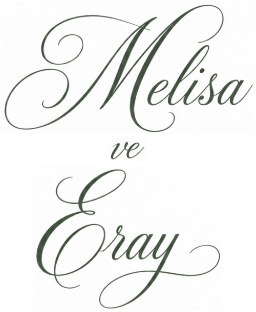
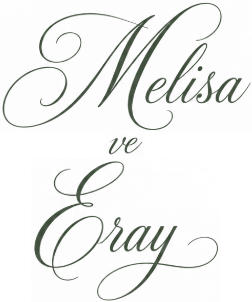
Melisa ve Eray yazisi ideal orana kucultuldu, ust yazi ve alt tarih/mekan mesafeleri dengelendi

diff --git a/css/styles.css b/css/styles.css
@@ -343,28 +343,28 @@ html, body {
   justify-content: center;
   text-align: center;
   max-width: 240px;
-  margin-top: 5px;
+  margin-top: 10px;
 }
 
 .hero-quote-script {
   font-family: 'Cormorant Garamond', serif;
   font-style: italic;
   font-weight: 300;
-  font-size: 12.5px;
-  line-height: 1.6;
+  font-size: 12px;
+  line-height: 1.5;
   color: #4a5044;
-  margin-bottom: 12px;
-  letter-spacing: 0.4px;
-  max-width: 220px;
+  margin-bottom: 6px;
+  letter-spacing: 0.3px;
+  max-width: 210px;
 }
 
 .hero-names-calligraphy-wrap {
   width: 100%;
-  max-width: 165px;
+  max-width: 125px;
   display: flex;
   justify-content: center;
   align-items: center;
-  margin: 2px 0 6px 0;
+  margin: 2px 0 4px 0;
 }
 
 .hero-calligraphy-img {
@@ -388,31 +388,31 @@ html, body {
 
 .hero-wedding-date-text {
   font-family: 'Cinzel', serif;
-  font-size: 13.5px;
+  font-size: 13px;
   font-weight: 600;
-  letter-spacing: 2.5px;
+  letter-spacing: 2px;
   color: #2d3129;
-  margin-top: 14px;
+  margin-top: 6px;
 }
 
 .hero-wedding-venue-text {
   font-family: 'Montserrat', sans-serif;
-  font-size: 9px;
+  font-size: 8.5px;
   font-weight: 500;
-  letter-spacing: 1.2px;
+  letter-spacing: 1px;
   color: #5d6356;
-  margin-top: 5px;
-  line-height: 1.5;
+  margin-top: 4px;
+  line-height: 1.4;
   text-transform: uppercase;
 }
 
 .hero-wedding-time-text {
   font-family: 'Cinzel', serif;
-  font-size: 11px;
+  font-size: 10.5px;
   font-weight: 600;
   letter-spacing: 2px;
   color: #2d3129;
-  margin-top: 3px;
+  margin-top: 2px;
 }
 
 /* "Devamı İçin Kaydırın" Kapsülü (Tüm ekranlarda tam ekran içine sığan esnek konum) */
